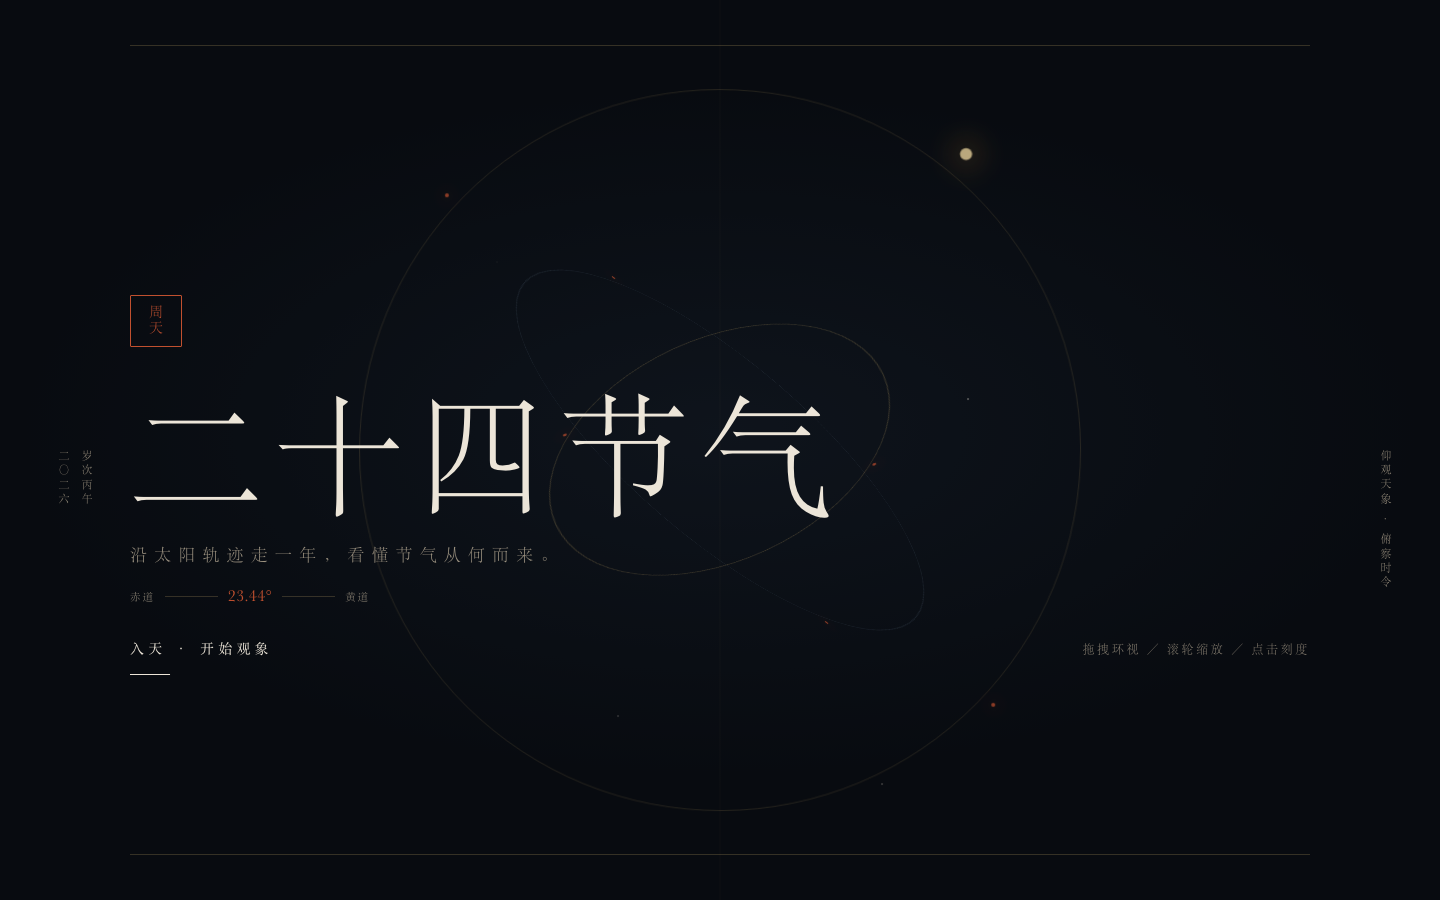
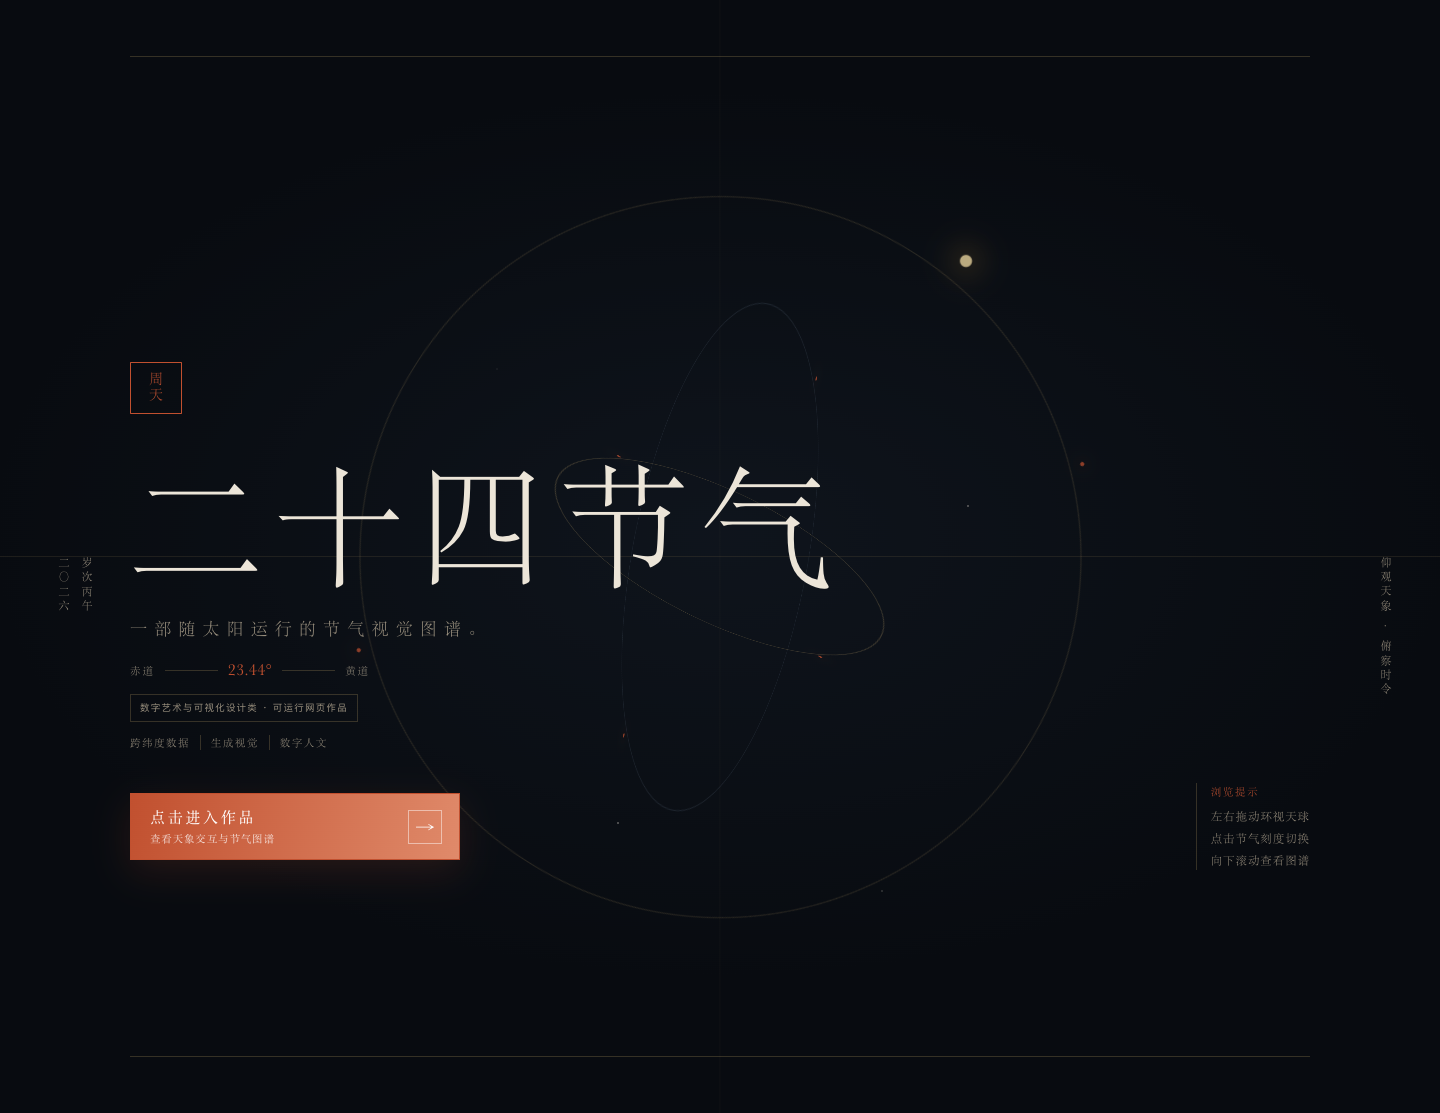
Clarify judging entry and browsing instructions

diff --git a/style.css b/style.css
@@ -141,7 +141,8 @@ button{font-family:inherit;color:inherit;}
 }
 .intro-grid{
   position:relative;z-index:2;width:min(1180px,calc(100vw - 2*var(--pad)));
-  display:grid;grid-template-rows:1fr auto 1fr;height:100%;padding:clamp(28px,5vh,56px) 0;
+  display:grid;grid-template-columns:minmax(0,1fr);
+  grid-template-rows:1fr auto 1fr;height:100%;padding:clamp(28px,5vh,56px) 0;
 }
 .intro-rule{height:1px;background:var(--line);transform:scaleX(0);transform-origin:left;
   animation:ruleIn 1.4s var(--ease) .1s forwards;}
@@ -192,21 +193,42 @@ button{font-family:inherit;color:inherit;}
 }
 .intro-tags span:last-child{padding-right:0;border-right:0;}
 .intro-foot{
-  align-self:start;display:flex;align-items:baseline;justify-content:space-between;
-  gap:24px;margin-top:clamp(20px,3vh,36px);
+  align-self:start;display:flex;align-items:center;justify-content:space-between;
+  gap:clamp(22px,4vw,54px);margin-top:clamp(20px,3vh,36px);
   animation:fadeUp 1s var(--ease) 1s both;flex-wrap:wrap;
 }
 .enter{
-  position:relative;background:none;border:0;padding:0 0 10px;cursor:pointer;
-  min-height:44px;font-size:14px;letter-spacing:.3em;color:var(--ink);
+  position:relative;display:flex;align-items:center;justify-content:space-between;gap:28px;
+  min-width:min(330px,100%);min-height:64px;padding:12px 17px 12px 19px;
+  border:1px solid var(--accent);cursor:pointer;text-align:left;color:#fff;
+  background:linear-gradient(105deg,var(--accent),var(--accent2));
+  box-shadow:0 12px 36px rgba(193,80,47,.16);
+  transition:transform .35s var(--ease),box-shadow .35s var(--ease),
+             filter .35s var(--ease);
 }
-.enter-line{
-  position:absolute;left:0;right:0;bottom:0;height:1px;background:var(--ink);
-  transform:scaleX(.28);transform-origin:left;transition:transform .6s var(--ease),background .3s;
+.enter-txt{display:flex;flex-direction:column;gap:5px;}
+.enter-txt b{font-size:15px;font-weight:400;letter-spacing:.18em;}
+.enter-txt small{
+  font-size:10.5px;line-height:1.4;letter-spacing:.08em;color:rgba(255,255,255,.78);
 }
-.enter:hover .enter-line{transform:scaleX(1);background:var(--accent);}
-.enter:hover{color:var(--accent);}
-.intro-meta{margin:0;font-size:12px;letter-spacing:.22em;color:var(--muted);opacity:.88;}
+.enter-arrow{
+  display:grid;place-items:center;width:34px;height:34px;flex:0 0 34px;
+  border:1px solid rgba(255,255,255,.48);font:400 20px/1 var(--latin);
+  transition:transform .35s var(--ease),background .35s;
+}
+.enter:hover{
+  color:#fff;transform:translateY(-2px);filter:brightness(1.06);
+  box-shadow:0 18px 48px rgba(193,80,47,.24);
+}
+.enter:hover .enter-arrow{transform:translateX(4px);background:rgba(255,255,255,.12);}
+.intro-meta{
+  display:grid;grid-template-columns:1fr;gap:3px;margin:0;
+  padding-left:14px;border-left:1px solid var(--line);
+  font-size:11.5px;line-height:1.65;letter-spacing:.08em;color:var(--muted);
+}
+.intro-meta-title{
+  margin-bottom:4px;color:var(--accent);font-size:10.5px;letter-spacing:.16em;
+}
 .intro-aside{
   position:absolute;right:clamp(18px,3.2vw,46px);top:50%;transform:translateY(-50%);
   margin:0;writing-mode:vertical-rl;font-size:11px;letter-spacing:.3em;
@@ -246,6 +268,7 @@ button{font-family:inherit;color:inherit;}
 body[data-pal="paper"] .vig{
   background:radial-gradient(125% 95% at 50% 46%,transparent 44%,rgba(120,100,70,.18) 100%);
 }
+body[data-pal="paper"] .scroll-cue{background:rgba(243,236,224,.78);}
 
 /* ---------- 顶栏 ---------- */
 .top{
@@ -557,17 +580,27 @@ body[data-pal="paper"] .term{text-shadow:0 2px 30px rgba(255,250,240,.5);}
 .stage.focus-mode .focus-exit.show{opacity:1;}
 .scroll-cue{
   position:absolute;right:var(--pad);bottom:clamp(74px,9vh,96px);z-index:7;
-  display:flex;align-items:center;gap:12px;text-decoration:none;
-  font-size:10.5px;letter-spacing:.18em;color:var(--muted);
-  transition:color .3s;
+  display:flex;align-items:center;gap:11px;text-decoration:none;
+  padding:9px 13px 9px 10px;border:1px solid var(--line);
+  background:rgba(8,11,16,.58);color:var(--ink);
+  -webkit-backdrop-filter:blur(14px);backdrop-filter:blur(14px);
+  transition:color .3s,border-color .3s,transform .35s var(--ease),background .3s;
 }
-.scroll-cue i{display:block;position:relative;width:34px;height:1px;background:var(--line);}
+.scroll-cue-no{
+  align-self:stretch;display:grid;place-items:center;min-width:27px;
+  border-right:1px solid var(--line);color:var(--accent);
+  font:400 11px/1 var(--latin);
+}
+.scroll-cue-copy{display:flex;flex-direction:column;gap:3px;line-height:1.2;letter-spacing:.08em;}
+.scroll-cue-copy small{font-size:9.5px;color:var(--accent);}
+.scroll-cue-copy b{font-size:11.5px;font-weight:400;letter-spacing:.1em;}
+.scroll-cue i{display:block;position:relative;width:26px;height:1px;background:var(--line);}
 .scroll-cue i::after{
   content:"";position:absolute;right:0;top:-2px;width:5px;height:5px;
   border-right:1px solid currentColor;border-top:1px solid currentColor;
   transform:rotate(45deg);transition:transform .35s var(--ease);
 }
-.scroll-cue:hover{color:var(--ink);}
+.scroll-cue:hover{color:var(--ink);border-color:var(--accent);background:var(--veil);transform:translateY(2px);}
 .scroll-cue:hover i::after{transform:translateX(4px) rotate(45deg);}
 
 /* ---------- 60 秒作品导览 ---------- */
@@ -1081,7 +1114,7 @@ body[data-pal="paper"] .term-dialog::backdrop{background:rgba(52,43,30,.36);}
   .metrics{position:static;order:2;padding:22px var(--pad) 0;flex-wrap:wrap;gap:26px;}
   .metric{flex:1 1 120px;}
   .panel{
-    position:static;order:5;width:auto;margin:26px var(--pad) 0;top:auto;bottom:auto;
+    position:static;order:6;width:auto;margin:26px var(--pad) 0;top:auto;bottom:auto;
     max-height:none;overflow:visible;border-top:1px solid var(--ink);padding-left:18px;
   }
   .panel-head{background:transparent;}
@@ -1136,7 +1169,10 @@ body[data-pal="paper"] .term-dialog::backdrop{background:rgba(52,43,30,.36);}
   .stage.focus-mode{display:block;height:100svh;min-height:430px;overflow:hidden;}
   .stage.focus-mode #scene{height:100%;min-height:100%;}
   .stage.focus-mode .hero{position:absolute;left:var(--pad);bottom:52px;padding:0;}
-  .scroll-cue{display:none;}
+  .scroll-cue{
+    position:static;order:5;right:auto;bottom:auto;align-self:flex-start;
+    margin:22px var(--pad) 0;
+  }
   .term-table{grid-template-columns:repeat(2,minmax(0,1fr));}
   .term-cell:nth-child(n){padding-left:0;border-left:0;}
   .term-cell:nth-child(even){padding-left:18px;border-left:1px solid var(--line);}
@@ -1193,6 +1229,17 @@ body[data-pal="paper"] .term-dialog::backdrop{background:rgba(52,43,30,.36);}
   .guide-steps{grid-template-columns:1fr;gap:7px;padding:12px 0;}
   .guide-steps li{align-items:center;}
   .guide-actions{margin-top:14px;justify-content:space-between;gap:12px;}
+  .intro-foot{
+    display:grid;grid-template-columns:minmax(0,1fr);
+    gap:18px;align-items:stretch;
+  }
+  .enter{min-width:0;width:100%;}
+  .intro-meta{
+    grid-template-columns:repeat(2,minmax(0,1fr));column-gap:14px;
+    padding:10px 0 0;border-left:0;border-top:1px solid var(--line);
+  }
+  .intro-meta-title{grid-column:1/-1;}
+  .scroll-cue{margin-top:18px;}
   .intro-category{font-size:8.5px;letter-spacing:.08em;}
   .atlas{padding-top:76px;}
   .atlas-top .display{font-size:31px;letter-spacing:.02em;line-height:1.22;}

diff --git a/index.html b/index.html
@@ -41,10 +41,15 @@
     </div>
     <div class="intro-foot">
       <button class="enter" id="enter" type="button">
-        <span class="enter-txt">入天 · 开始观象</span>
-        <span class="enter-line"></span>
+        <span class="enter-txt"><b>点击进入作品</b><small>查看天象交互与节气图谱</small></span>
+        <span class="enter-arrow" aria-hidden="true">→</span>
       </button>
-      <p class="intro-meta">拖拽环视 <span>／</span> 滚轮缩放 <span>／</span> 点击刻度</p>
+      <div class="intro-meta">
+        <span class="intro-meta-title">浏览提示</span>
+        <span>左右拖动环视天球</span>
+        <span>点击节气刻度切换</span>
+        <span>向下滚动查看图谱</span>
+      </div>
     </div>
     <div class="intro-rule"></div>
   </div>
@@ -97,17 +102,17 @@
 
   <section class="guide" id="guide" role="dialog" aria-modal="false" aria-hidden="true" aria-labelledby="guideTitle" aria-describedby="guideDesc">
     <button class="guide-close" id="guideClose" type="button" aria-label="关闭体验引导">×</button>
-    <p class="eyebrow">初见 <span class="eyebrow-dot">·</span> 三十秒</p>
+    <p class="eyebrow">操作指引 <span class="eyebrow-dot">·</span> 十秒上手</p>
     <h2 id="guideTitle">沿着太阳，看见一年</h2>
-    <p class="guide-desc" id="guideDesc">黄道环上的每一格都是一个节气。位置、天光与数据会一起变化，让抽象历法成为一幅可以行走的年度图像。</p>
+    <p class="guide-desc" id="guideDesc">左右拖动可环视天球，点击节气刻度可切换内容；右上角「导览」会自动演示主要作品内容。继续向下可查看三地昼长与节气光纹。</p>
     <ol class="guide-steps">
-      <li><b>01</b><span><strong>左右拖动</strong>环视天球</span></li>
-      <li><b>02</b><span><strong>点击</strong>刻度查看节气</span></li>
-      <li><b>03</b><span><strong>播放</strong>走完一年</span></li>
+      <li><b>01</b><span><strong>拖动</strong>环视黄道天球</span></li>
+      <li><b>02</b><span><strong>点击</strong>节气或「导览」</span></li>
+      <li><b>03</b><span><strong>向下滚动</strong>查看数据图谱</span></li>
     </ol>
     <div class="guide-actions">
-      <button class="guide-start" id="guideStart" type="button">60秒看作品</button>
-      <button class="guide-skip" id="guideSkip" type="button">自由探索</button>
+      <button class="guide-start" id="guideStart" type="button">开始60秒自动导览</button>
+      <button class="guide-skip" id="guideSkip" type="button">继续向下浏览</button>
     </div>
   </section>
 
@@ -185,7 +190,9 @@
   </nav>
 
   <a class="scroll-cue" href="#atlas">
-    <span>进入节气图谱</span><i aria-hidden="true"></i>
+    <span class="scroll-cue-no">02</span>
+    <span class="scroll-cue-copy"><small>继续浏览</small><b>年度节气图谱</b></span>
+    <i aria-hidden="true"></i>
   </a>
 
   <button class="focus-exit" id="focusExit" type="button" aria-hidden="true">轻触退出沉浸</button>

diff --git a/app.js b/app.js
@@ -597,7 +597,7 @@
   });
   guideSkip.addEventListener("click", function () {
     hideGuide(true);
-    playBtn.focus();
+    $("atlas").scrollIntoView({behavior: reduce ? "auto" : "smooth", block: "start"});
   });
   guideClose.addEventListener("click", function () {
     hideGuide(true);
